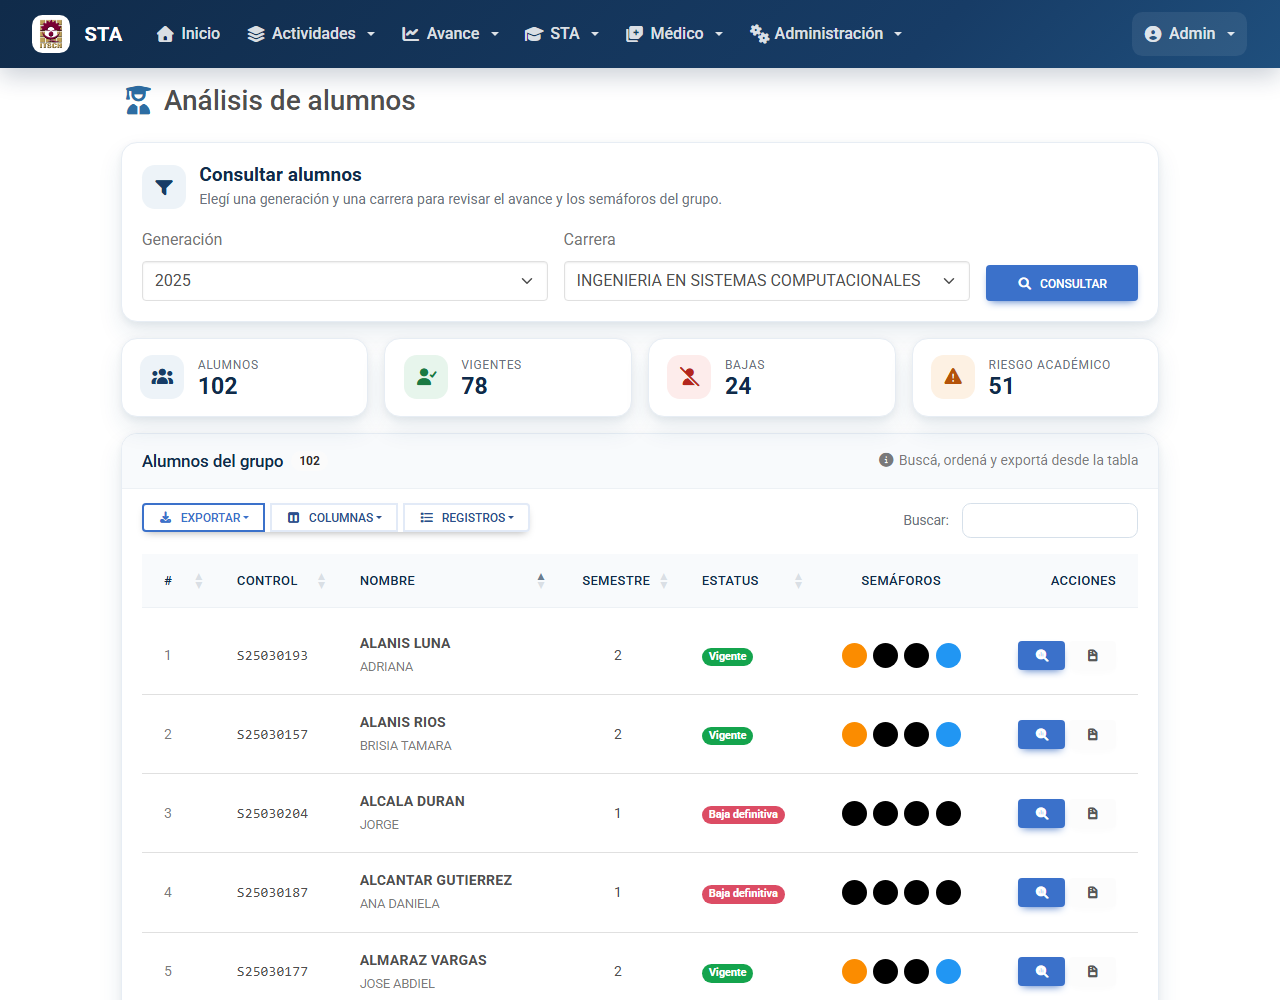
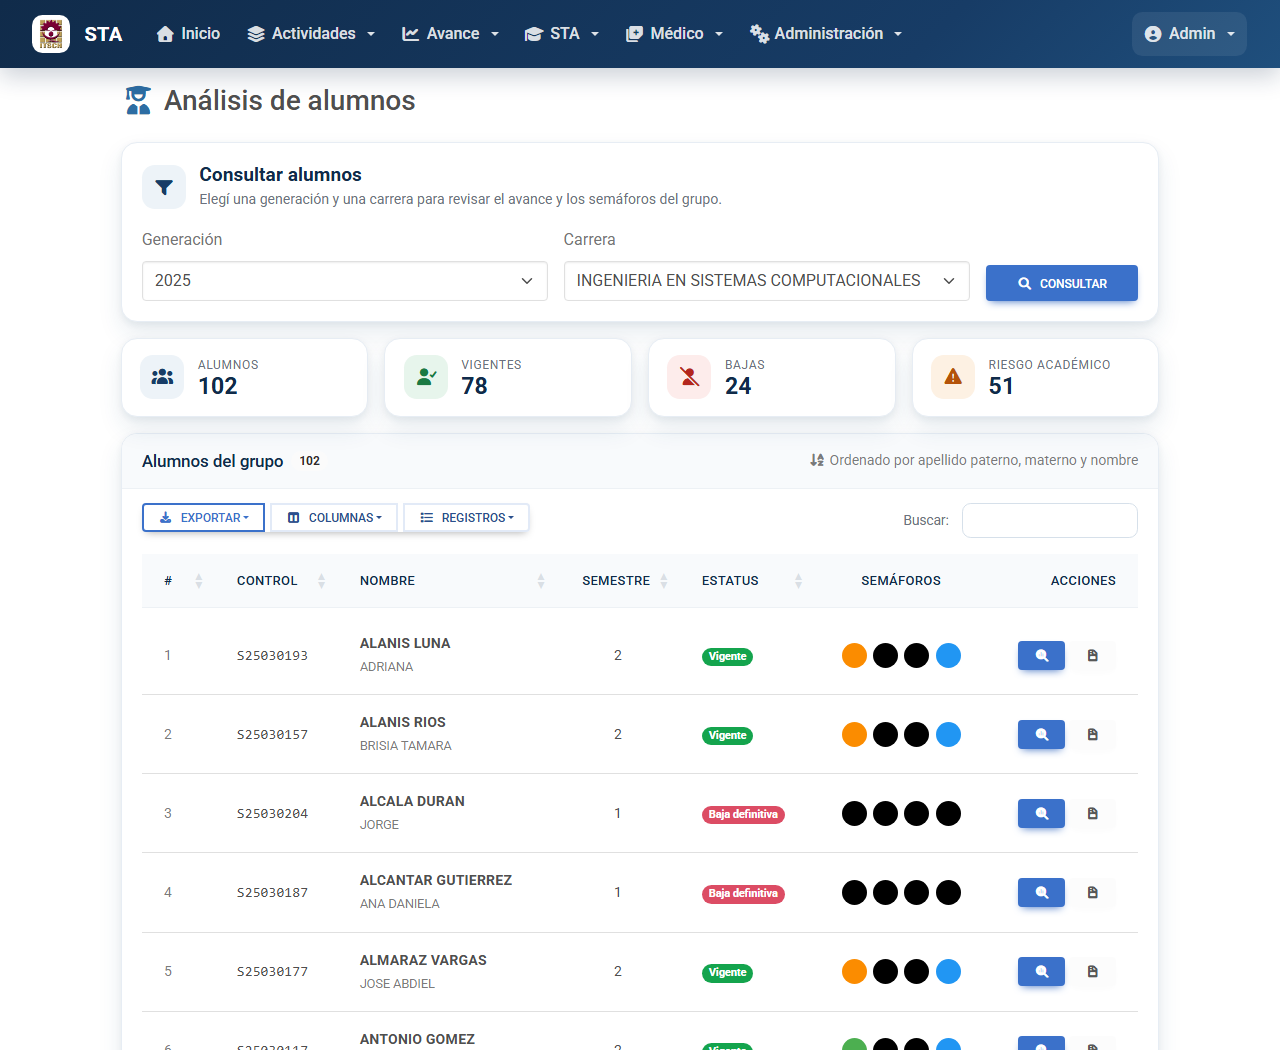
Orden ascendente por apellidos garantizado en Analisis de alumnos
- DataTables arranca sin orden propio (order: []) para respetar el orden del
  servidor: apellido paterno, apellido materno y nombre.
- Se desactiva stateSave, que podia restaurar un orden anterior por control.
- Se conserva data-order normalizado para que al ordenar por Nombre se siga
  respetando el criterio de apellidos.
- La cabecera de la tabla muestra el criterio de orden.

diff --git a/resources/views/sta/analisis_alumnos/index.blade.php b/resources/views/sta/analisis_alumnos/index.blade.php
@@ -182,7 +182,7 @@
                 @endif
             </div>
             <span class="text-muted small">
-                <i class="fa-solid fa-circle-info me-1"></i>Buscá, ordená y exportá desde la tabla
+                <i class="fa-solid fa-arrow-down-a-z me-1"></i>Ordenado por apellido paterno, materno y nombre
             </span>
         </div>
 
@@ -272,8 +272,9 @@
                 pageLength: 10,
                 lengthMenu: [[10, 25, 50, -1], ['10 registros', '25 registros', '50 registros', 'Ver todos']],
                 pagingType: 'full_numbers',
-                // Orden inicial por apellido paterno, materno y nombre (data-order normalizado)
-                order: [[2, 'asc']],
+                // Sin orden inicial: se respeta el orden del servidor
+                // (apellido paterno, apellido materno y nombre)
+                order: [],
                 columnDefs: [
                     { orderable: false, targets: [5, 6] }
                 ],
@@ -285,7 +286,9 @@
                 scrollX: true,
                 scrollCollapse: true,
                 deferRender: true,
-                stateSave: true,
+                // Sin stateSave: evita que un orden anterior (por control)
+                // se restaure por encima del orden de apellidos
+                stateSave: false,
                 language: {
                     url: '//cdn.datatables.net/plug-ins/1.13.6/i18n/es-ES.json'
                 },

diff --git a/docs/BITACORA.md b/docs/BITACORA.md
@@ -4,7 +4,7 @@ Este archivo registra cronológicamente todos los cambios, decisiones y pendient
 
 ## Estado actual
 
-**Última entrada:** 2026-11-21 15:47 · **Entradas registradas:** 48 · **Último commit previo a esta sesión:** `c9a4f59` (2026-11-21 15:46).
+**Última entrada:** 2026-11-21 16:01 · **Entradas registradas:** 49 · **Último commit previo a esta sesión:** `646531d` (2026-11-21 15:48).
 
 **Verificaciones de cierre (última: 2026-11-21 13:45):**
 
@@ -39,6 +39,7 @@ Este archivo registra cronológicamente todos los cambios, decisiones y pendient
 
 Estas entradas están marcadas como completadas pero su verificación en navegador sigue abierta:
 
+- 2026-11-21 16:01 — Orden ascendente por apellidos garantizado
 - 2026-11-21 15:47 — Orden por apellidos en Análisis de alumnos
 - 2026-11-21 15:43 — UX del diagnóstico del alumno (STA)
 - 2026-11-21 15:40 — UX de Análisis de alumnos (STA)
@@ -134,7 +135,7 @@ Notas de implementación:
 | Módulo | Etiqueta en entradas | Entradas | Rango |
 |---|---|---|---|
 | Créditos complementarios | `créditos` | 25 | 2026-11-21 11:49 – 14:57 |
-| Trayectoria académica | `trayectoria` | 12 | 2026-11-20 18:59 – 2026-11-21 15:47 |
+| Trayectoria académica | `trayectoria` | 13 | 2026-11-20 18:59 – 2026-11-21 16:01 |
 | Infraestructura | `infraestructura` | 11 | 2026-11-20 18:32 – 2026-11-21 13:18 |
 | Tutorías | — | 0 | Sin entradas registradas |
 
@@ -162,6 +163,39 @@ Las entradas históricas no citan hash de commit; esta tabla permite cruzarlas p
 ## Bitácora cronológica
 
 <!-- Las entradas van aquí, más recientes arriba -->
+
+### [2026-11-21 16:01] — Orden ascendente por apellidos garantizado
+
+- **Estatus:** ✅ completado
+- **Agente:** lead
+- **Módulo:** trayectoria
+- **Prompt/Tarea original:** Ordenar la lista de `analisis/generación` de forma ascendente por apellido paterno, luego materno y al final nombre.
+
+**Archivos modificados:**
+- `resources/views/sta/analisis_alumnos/index.blade.php` (sin orden inicial de DataTables, sin `stateSave` y aviso de orden)
+
+**Archivos eliminados:**
+- Ninguno.
+
+**Consultas SQL nuevas o modificadas:**
+- Ninguna: el controlador ya ordena por `apellido_paterno`, `apellido_materno` y `nombre`.
+
+**Decisiones tomadas:**
+- `order: []` en DataTables: la tabla respeta el orden del servidor (paterno → materno → nombre) en lugar de reordenar por la primera columna.
+- `stateSave: false`: aunque el orden inicial ya no es Control, el estado guardado podía restaurar un orden anterior por control en visitas repetidas.
+- Se conserva `data-order` con la clave normalizada para que al hacer clic en «Nombre» el orden siga siendo por apellidos y no por el texto con acentos o Ñ.
+- La cabecera de la tabla indica «Ordenado por apellido paterno, materno y nombre» para que el criterio sea visible.
+
+**Pendientes / Deuda técnica:**
+- Ninguno relacionado.
+
+**Tests ejecutados:**
+- ✅ 7 comprobaciones: primer alumno por apellidos, orden del HTML con los cinco primeros, sin orden inicial en DataTables, `stateSave` desactivado, sin orden por control, clave `data-order` por fila y aviso en la cabecera.
+- ✅ `php artisan view:cache` y `php artisan test` (17 passed, 62 assertions).
+- ✅ Captura de la lista ordenada revisada.
+
+**Referencias:**
+- `docs/img/sta-analisis-orden-apellidos.png`
 
 ### [2026-11-21 15:47] — Orden por apellidos en Análisis de alumnos
 
